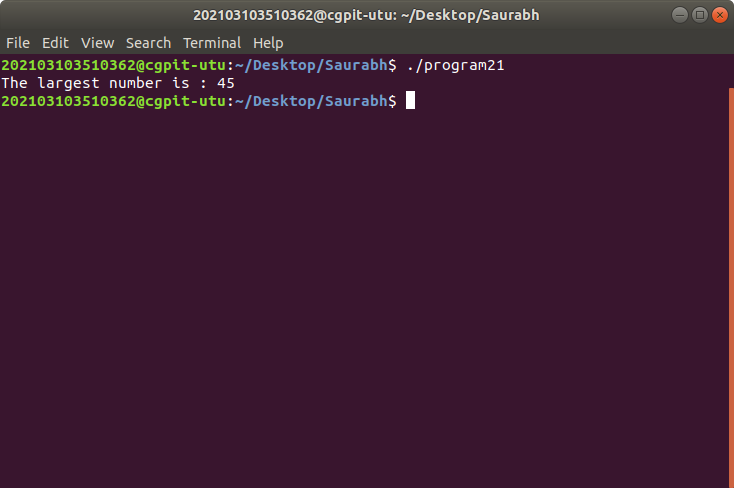
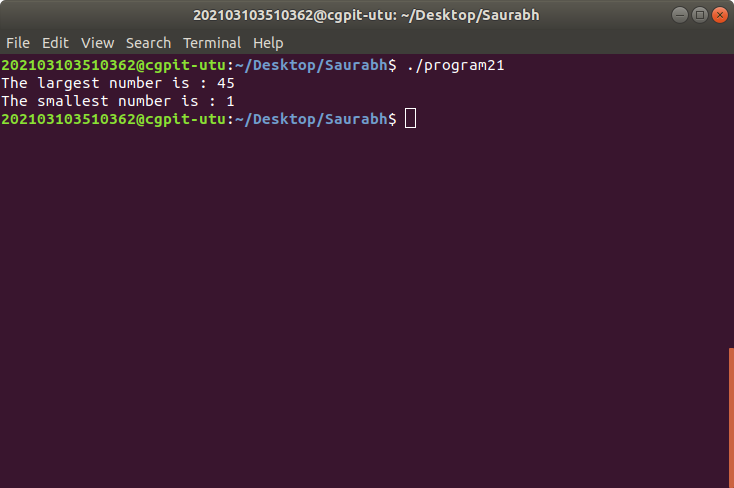
Add files via upload

Changed region(s): [[0.0, 0.1844, 0.5695, 0.2766], [0.9891, 0.1844, 1.0, 0.7377]]

diff --git a/program21/program21.c b/program21/program21.c
@@ -4,8 +4,9 @@
 int main()
 {
     /* initial code */
-    int a[5] = {1,45,3,6,5};
+    int a[5] = {2,45,1,6,5};
     int max = a[0];
+    // Largest
     for (int i = 1; i < 5; i++)
     {
         /* cheacking the condition */
@@ -16,5 +17,19 @@ int main()
         }
     }
     printf("The largest number is : %d\n",max);
+    // Smallest
+    int min = a[0];
+    for (int j = 1; j < 5; j++)
+    {
+        /* code */
+        if (min > a[j])
+        {
+            /* code */
+            min = a[j];
+        }
+    }
+    printf("The smallest number is : %d\n",min);
+    
+
     return 0;
 }
